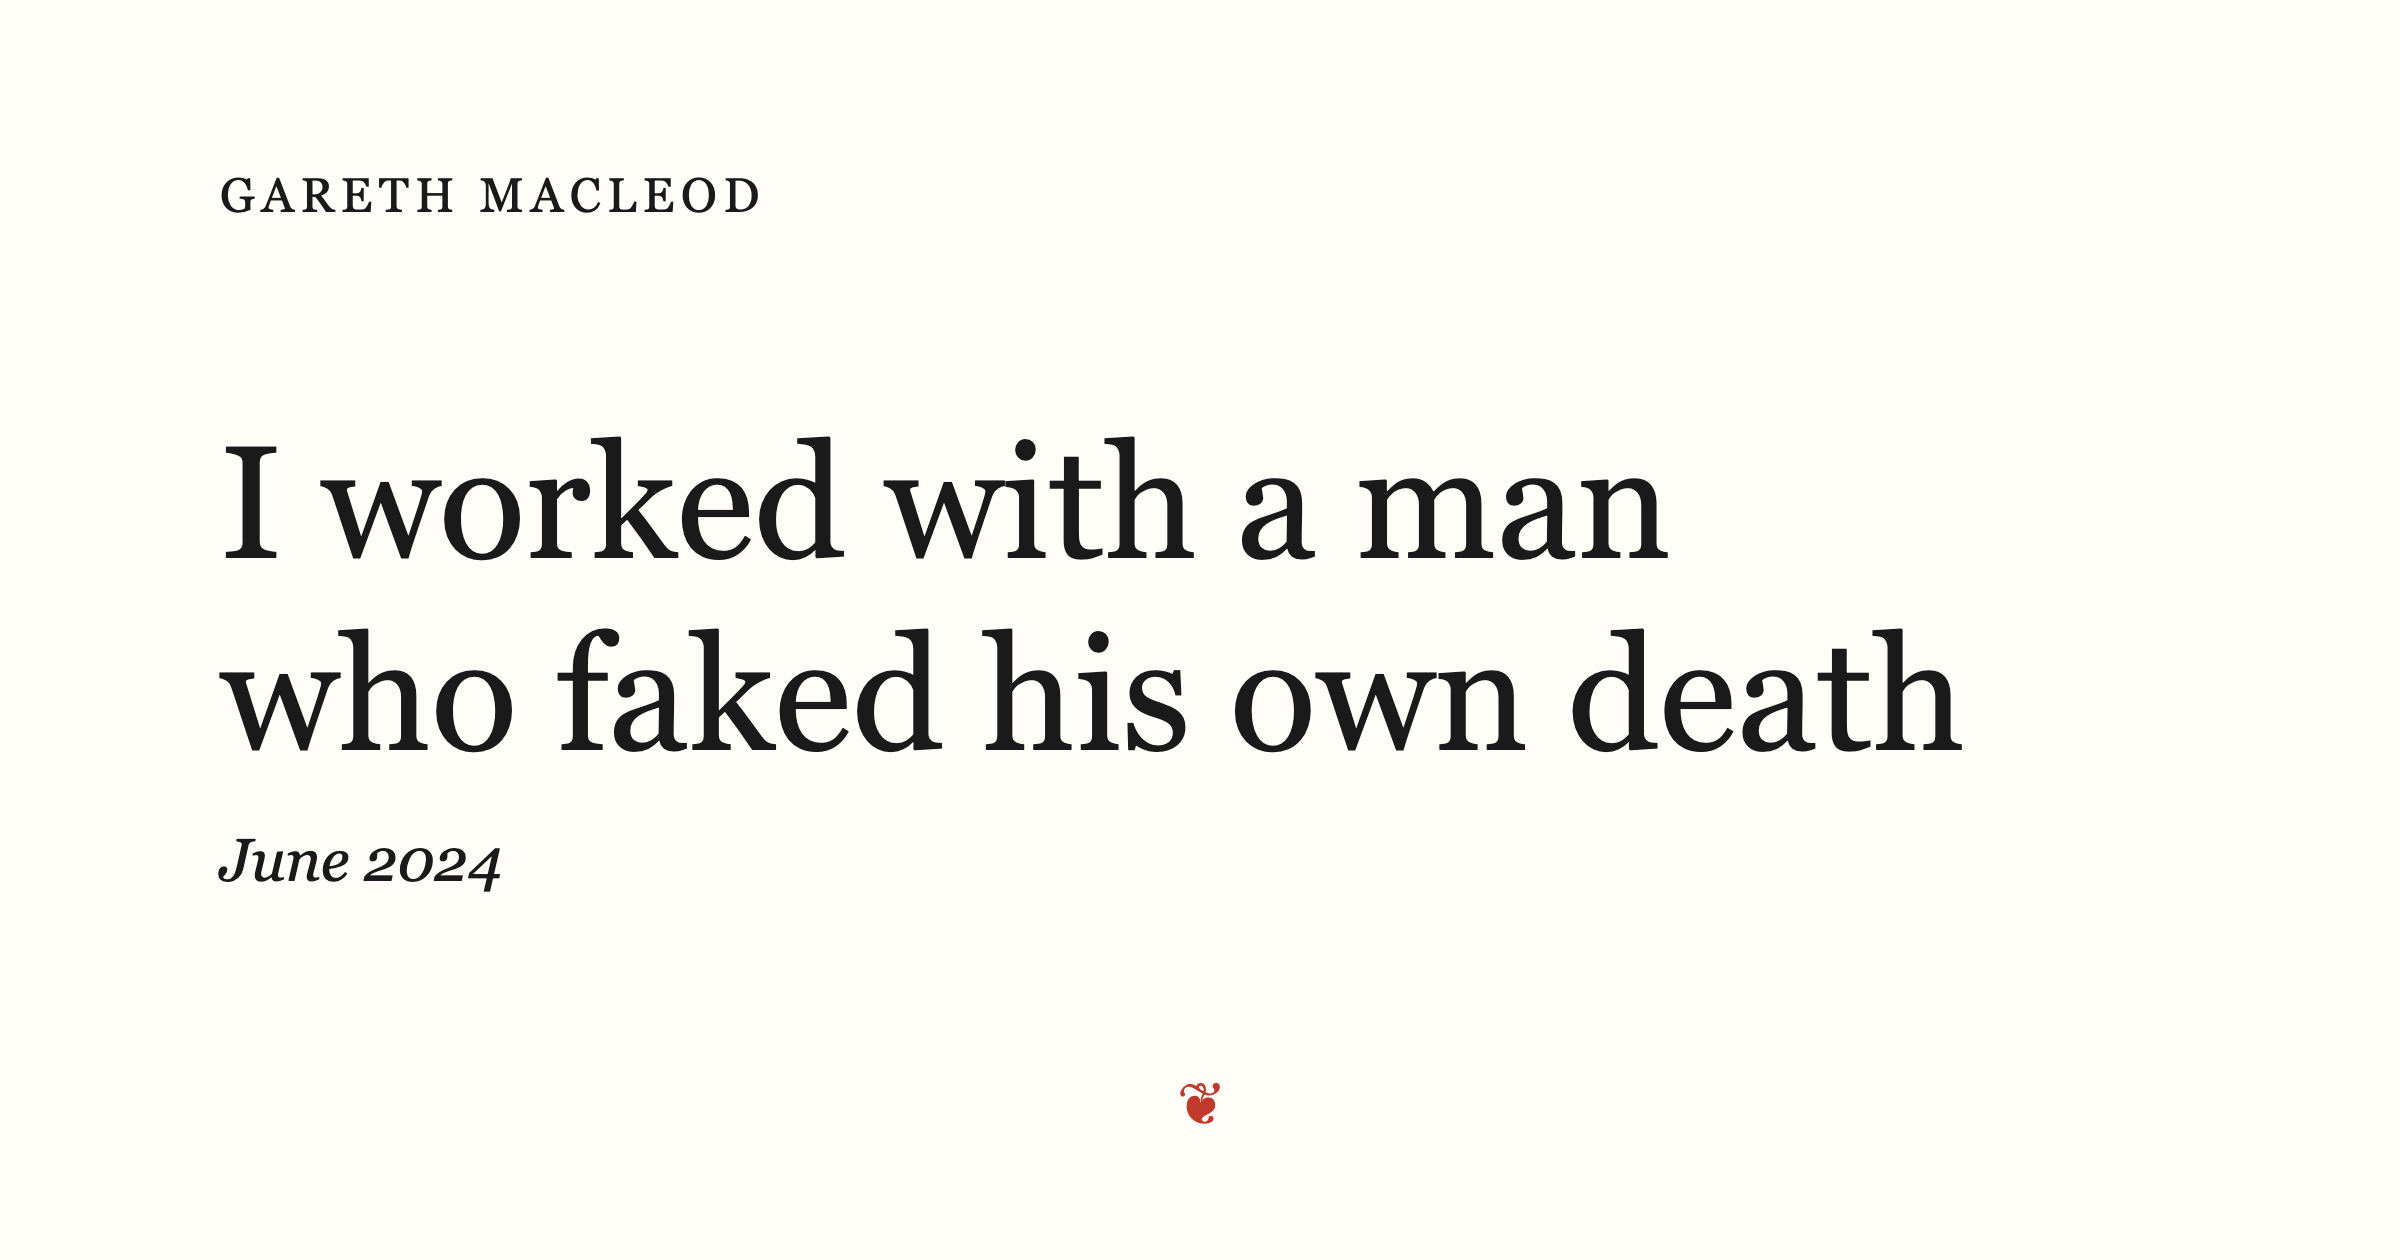
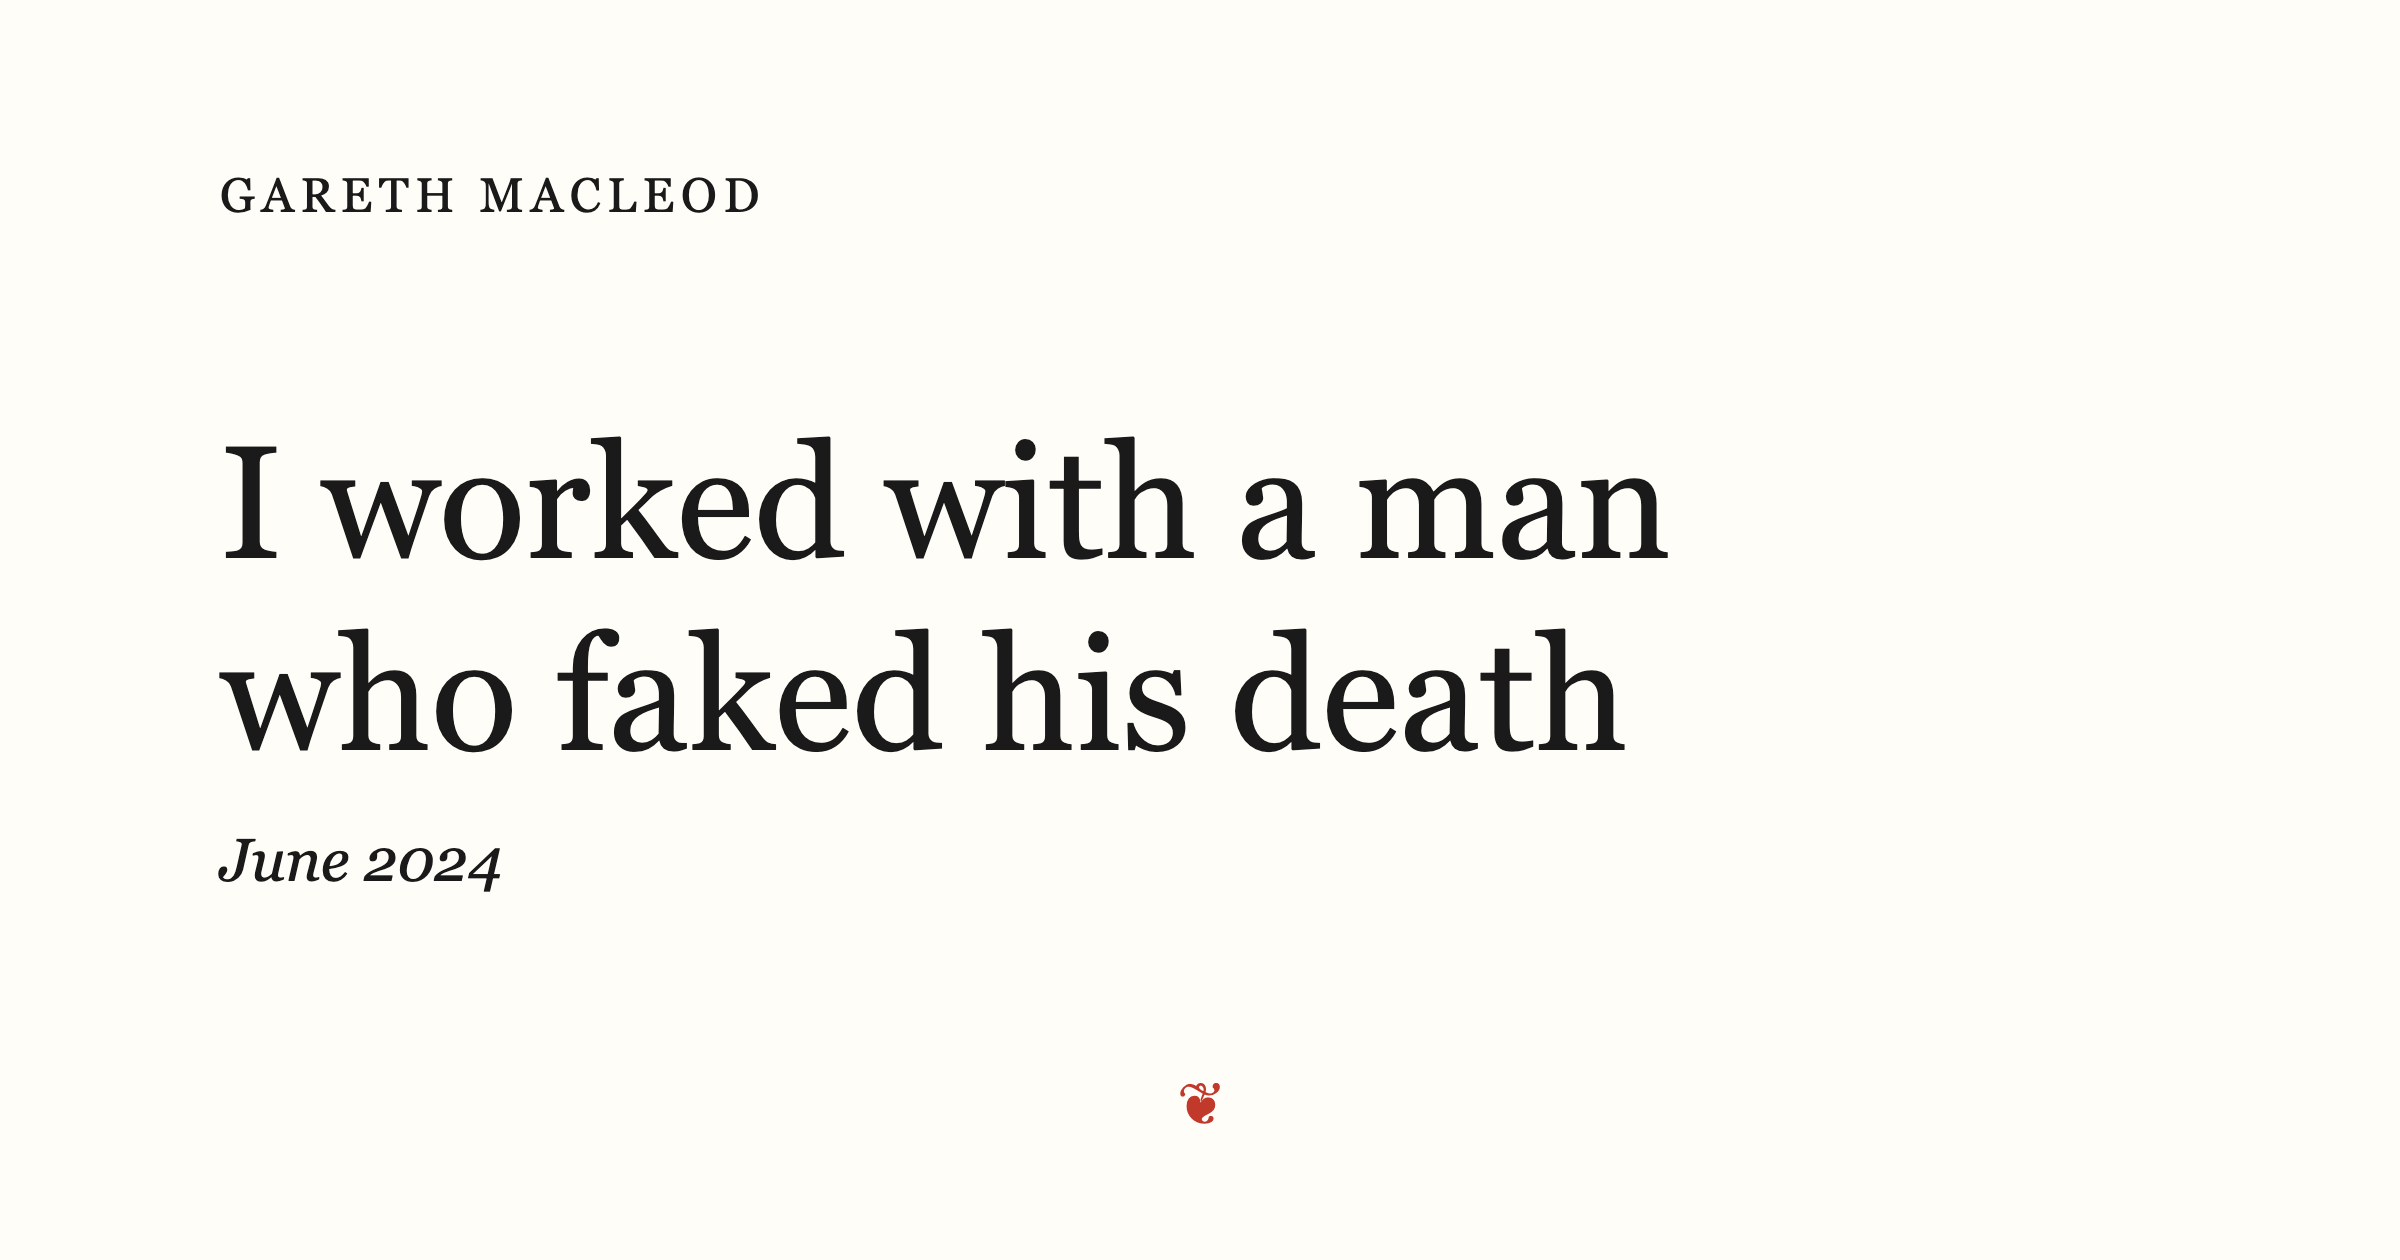
Drop “own” from “I worked with a man who faked his own death” (#36)
* Rename Gerald Cotten essay

* Keep original essay title and drop “own”

* Run one-time refresh of renamed essay preview

* Regenerate renamed essay preview

---------

Changed region(s): [[0.5312, 0.4952, 0.8125, 0.619]]

diff --git a/app/writing/i-worked-with-a-man-who-faked-his-own-death/page.tsx b/app/writing/i-worked-with-a-man-who-faked-his-own-death/page.tsx
@@ -3,7 +3,7 @@ import { postMetadata } from '@/lib/postMetadata';
 
 export const metadata = postMetadata({
   slug: 'i-worked-with-a-man-who-faked-his-own-death',
-  title: 'I worked with a man who faked his own death',
+  title: 'I worked with a man who faked his death',
   description:
     'We made a tidy profit trading on Gerald Cotten’s exchange—until the withdrawals stopped. The Quadriga collapse, seen from inside the market.',
 });
@@ -21,7 +21,7 @@ export default function FakedDeathPost() {
 
       <main>
         <h1 className="mt-0 mb-1 text-[1.45rem] leading-[1.25] text-balance">
-          I worked with a man who faked his own death
+          I worked with a man who faked his death
         </h1>
         <p className="m-0 italic">June 2024</p>
 

diff --git a/app/page.tsx b/app/page.tsx
@@ -44,7 +44,7 @@ export default function Home() {
             </li>
             <li className="mb-3 flex justify-between items-baseline gap-6">
               <Link href="/writing/i-worked-with-a-man-who-faked-his-own-death" className="flex-1">
-                I worked with a man who faked his own death
+                I worked with a man who faked his death
               </Link>
               <span className="shrink-0">Jun 2024</span>
             </li>
